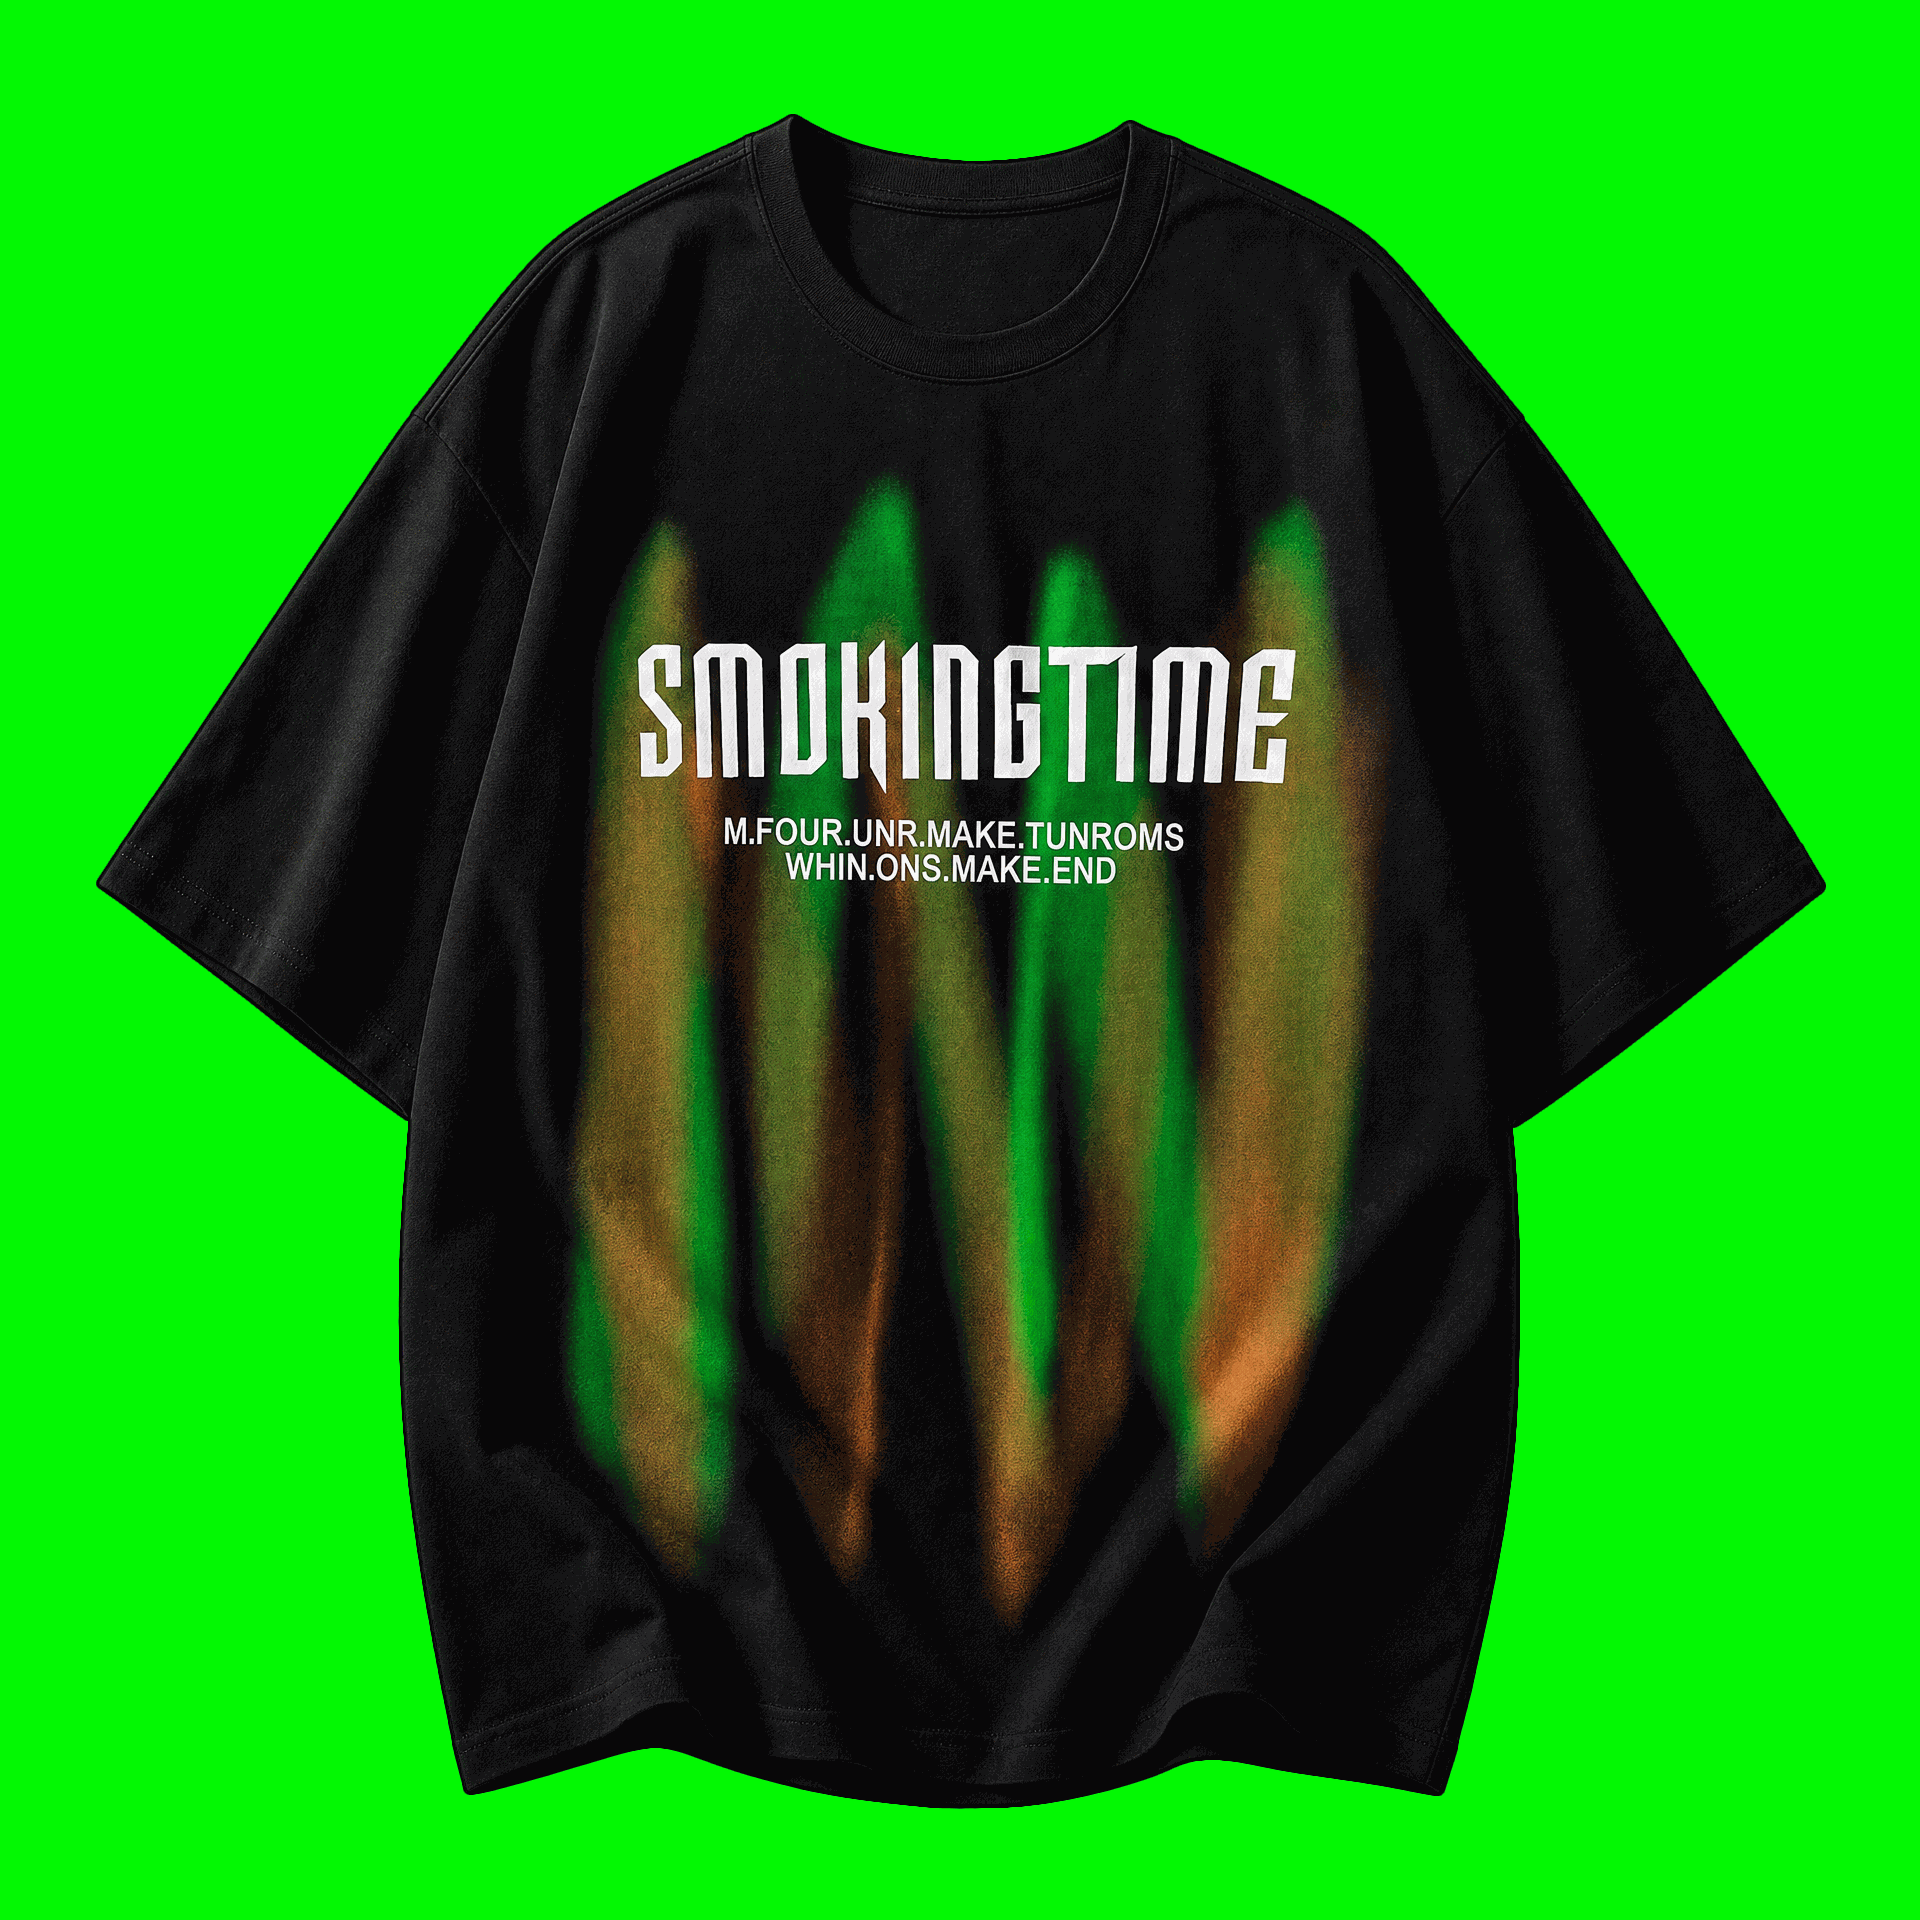
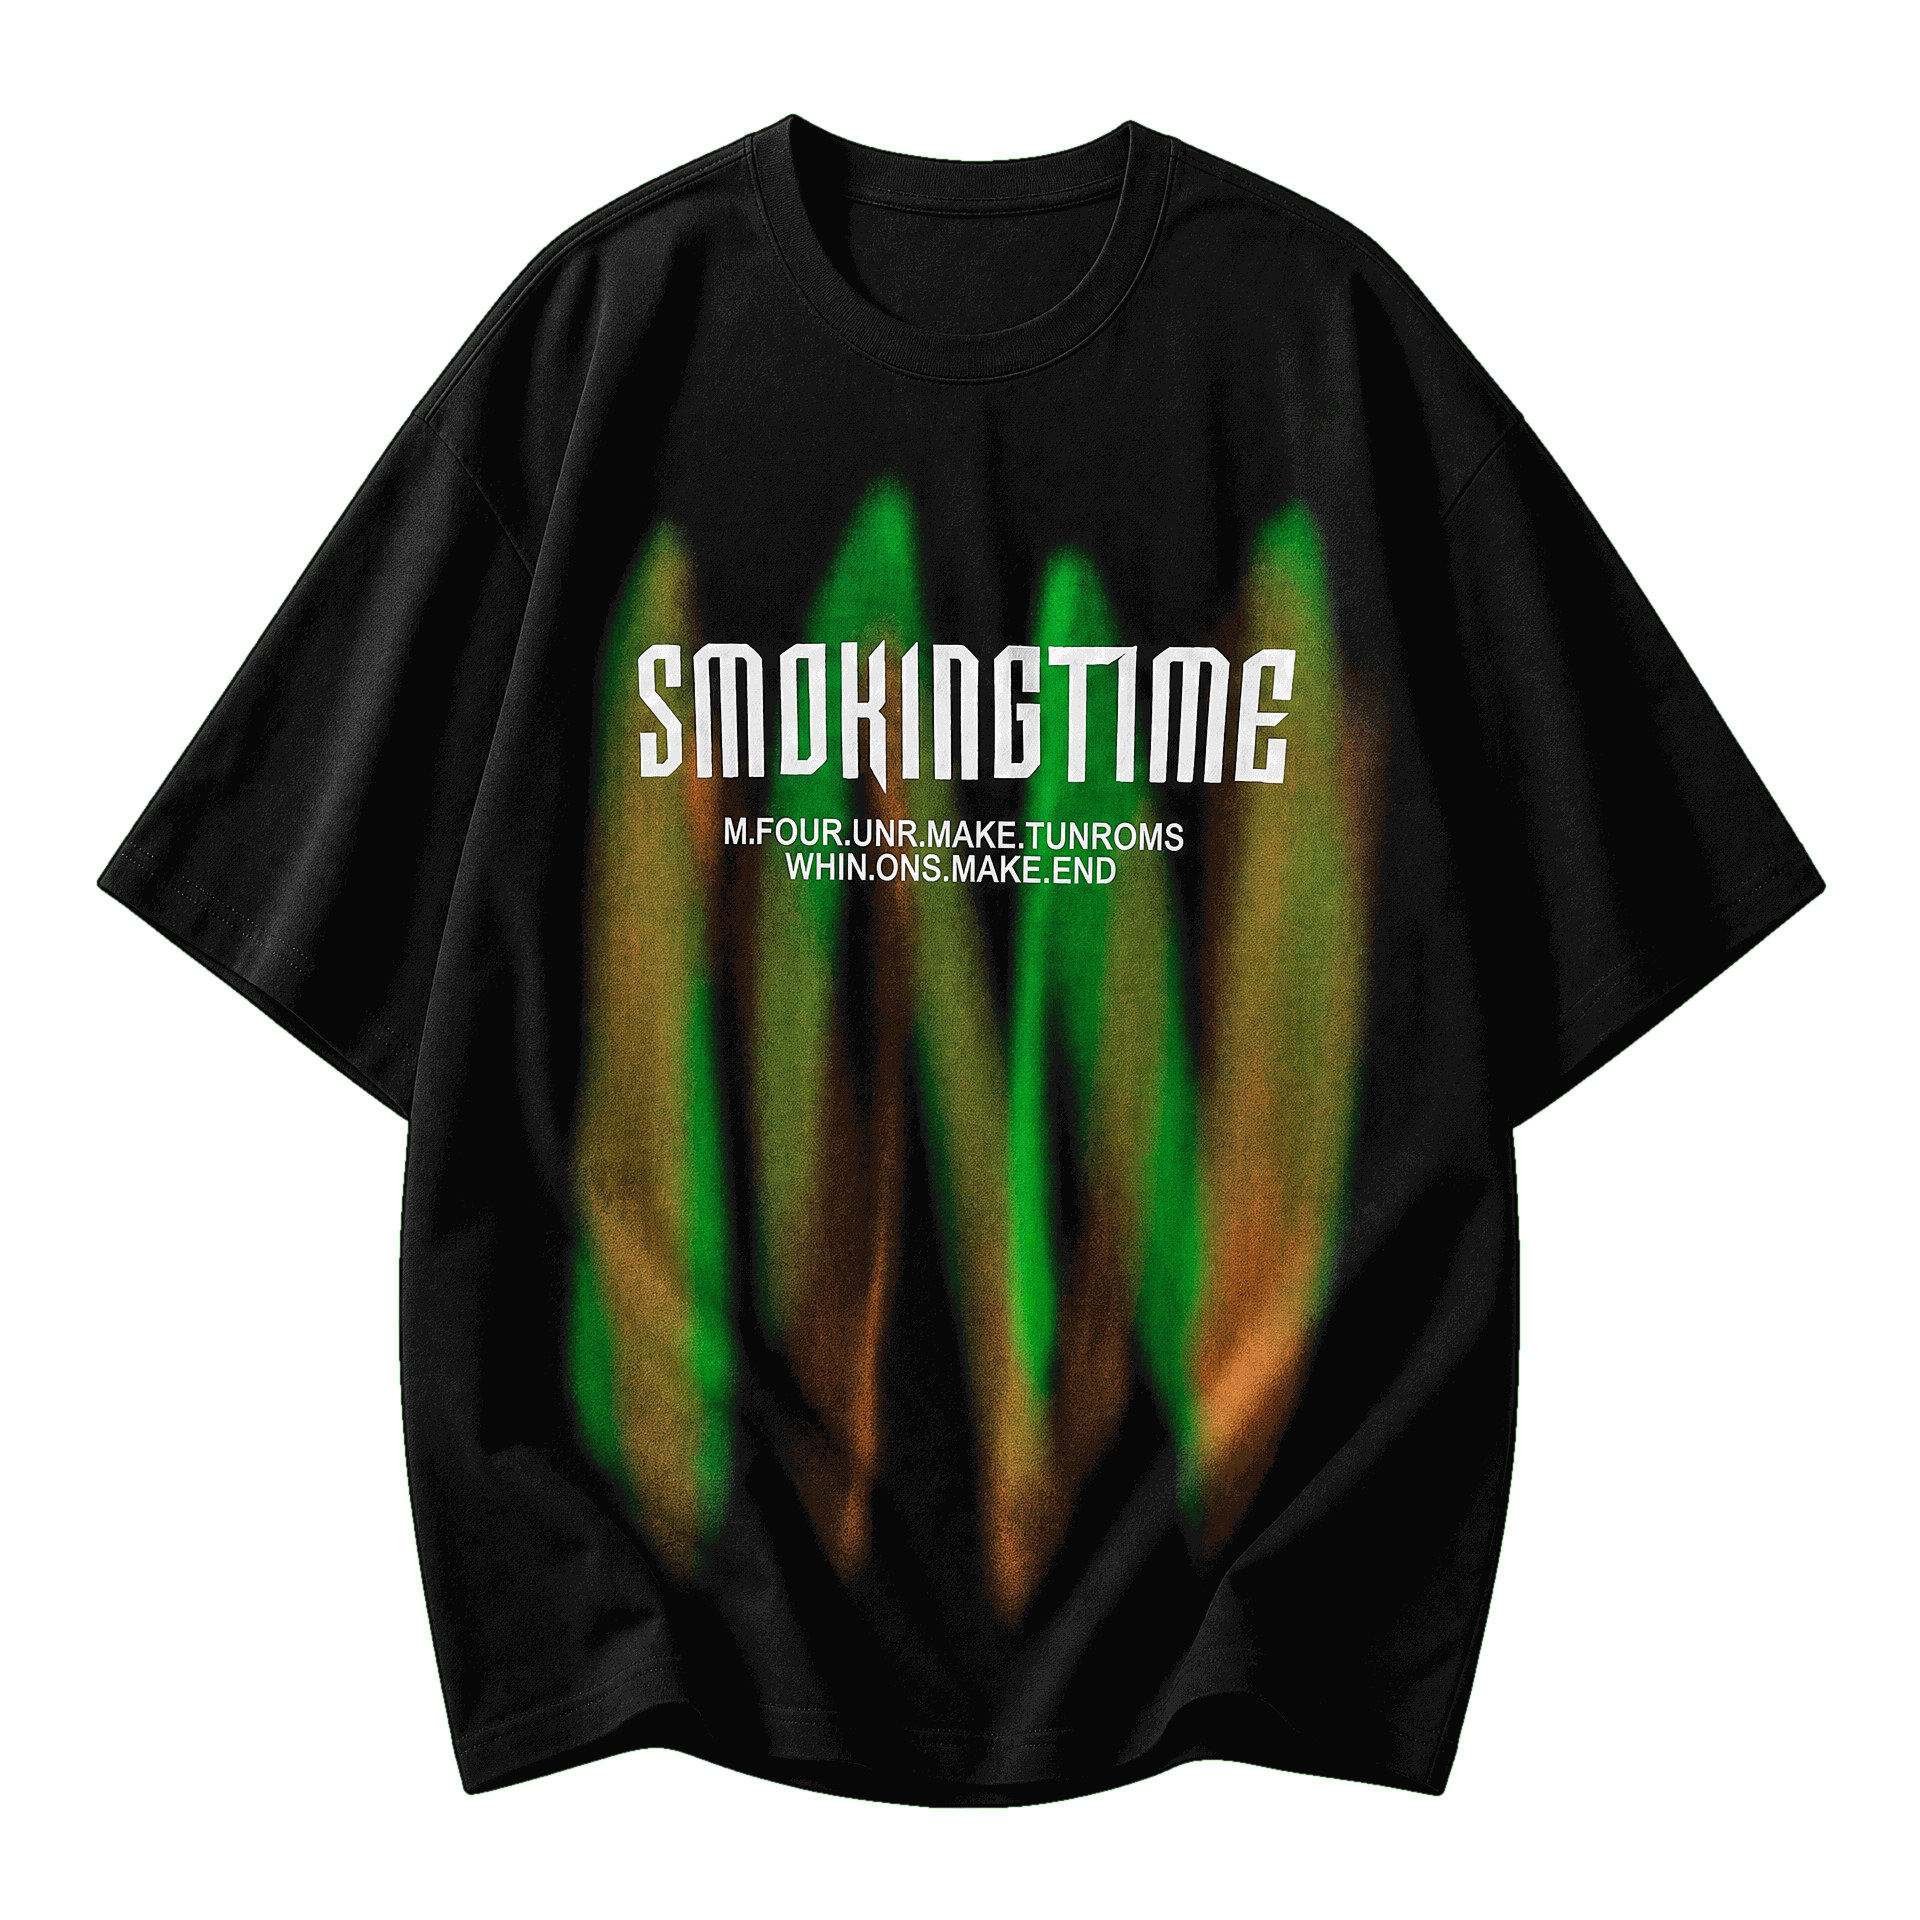
Clean green screen backgrounds on 3D mannequins and set all 18 products to SOLD OUT securely

diff --git a/shopify_set_sold_out.py b/shopify_set_sold_out.py
@@ -1,0 +1,86 @@
+import urllib.request
+import json
+import os
+import time
+
+# DISTRICT-99 (D99) - SHOPIFY INVENTORY SOLD-OUT SETTER
+# هذا السكريبت يتصل بمتجرك ويقوم بتعيين مخزون جميع مقاسات التيشيرتات الـ 18 إلى 0 لتظهر كـ SOLD OUT فوراً!
+
+STORE_URL = "district99-preview.myshopify.com"
+
+# Read token safely from local file ignored by git
+if os.path.exists("/home/user/.shopify_token"):
+    with open("/home/user/.shopify_token", "r") as f:
+        ACCESS_TOKEN = f.read().strip()
+else:
+    ACCESS_TOKEN = "shpat_YOUR_TOKEN_HERE"
+
+headers = {
+    "X-Shopify-Access-Token": ACCESS_TOKEN,
+    "Content-Type": "application/json"
+}
+
+def get_first_location_id():
+    """
+    Fetches the first location ID from Shopify (needed to modify inventory).
+    """
+    url = f"https://{STORE_URL}/admin/api/2026-07/locations.json"
+    req = urllib.request.Request(url, headers=headers, method="GET")
+    
+    try:
+        with urllib.request.urlopen(req) as response:
+            res_json = json.loads(response.read().decode("utf-8"))
+            location_id = res_json["locations"][0]["id"]
+            print(f"📍 Found Shopify Location ID: {location_id}")
+            return location_id
+    except Exception as e:
+        print(f"❌ Failed to fetch location: {e}")
+        return None
+
+def set_all_products_sold_out():
+    print("⏳ Starting inventory update to SOLD OUT...")
+    location_id = get_first_location_id()
+    if not location_id:
+        print("❌ Cannot proceed without Location ID.")
+        return
+        
+    # Fetch all products (up to 50)
+    url = f"https://{STORE_URL}/admin/api/2026-07/products.json?limit=50"
+    req = urllib.request.Request(url, headers=headers, method="GET")
+    
+    try:
+        with urllib.request.urlopen(req) as response:
+            res_json = json.loads(response.read().decode("utf-8"))
+            products = res_json["products"]
+            print(f"📦 Found {len(products)} products on the store.")
+            
+            for p in products:
+                print(f"🔄 Processing variants for product: {p['title']}")
+                for v in p["variants"]:
+                    inv_item_id = v["inventory_item_id"]
+                    sku = v["sku"]
+                    
+                    # Set inventory level to 0
+                    inv_url = f"https://{STORE_URL}/admin/api/2026-07/inventory_levels/set.json"
+                    inv_payload = {
+                        "location_id": location_id,
+                        "inventory_item_id": inv_item_id,
+                        "available": 0
+                    }
+                    
+                    inv_body = json.dumps(inv_payload).encode("utf-8")
+                    inv_req = urllib.request.Request(inv_url, data=inv_body, headers=headers, method="POST")
+                    
+                    try:
+                        with urllib.request.urlopen(inv_req) as inv_res:
+                            print(f"   ✅ Set SKU {sku} (Inventory ID: {inv_item_id}) to SOLD OUT (Qty: 0)")
+                        time.sleep(0.5) # Avoid API rate limit
+                    except Exception as e_inv:
+                        print(f"   ❌ Failed to set inventory for SKU {sku}: {e_inv}")
+                        
+        print("\n🎉 ALL DISTRICT-99 PRODUCTS ARE NOW SET TO SOLD OUT! 🎉")
+    except Exception as e:
+        print(f"❌ Failed to fetch products: {e}")
+
+if __name__ == "__main__":
+    set_all_products_sold_out()

diff --git a/fix_green_screens.py b/fix_green_screens.py
@@ -1,0 +1,85 @@
+import cv2
+import numpy as np
+import glob
+import os
+
+def remove_green_or_white_background(image_path, output_path):
+    """
+    Removes both white and bright phosphor green backgrounds from an image.
+    Uses HSV color space to cleanly isolate chroma-key green, and grayscale thresholding for white.
+    """
+    img = cv2.imread(image_path)
+    if img is None:
+        print(f"Error: Could not read image {image_path}")
+        return False
+        
+    h, w, c = img.shape
+    
+    # 1. Convert to HSV to detect bright phosphor green
+    hsv = cv2.cvtColor(img, cv2.COLOR_BGR2HSV)
+    
+    # Define range of bright phosphor green
+    lower_green = np.array([35, 40, 40])
+    upper_green = np.array([85, 255, 255])
+    
+    # Threshold the HSV image to get only green colors
+    green_mask = cv2.inRange(hsv, lower_green, upper_green)
+    
+    # 2. Convert to Grayscale to detect white
+    gray = cv2.cvtColor(img, cv2.COLOR_BGR2GRAY)
+    _, white_mask = cv2.threshold(gray, 245, 255, cv2.THRESH_BINARY)
+    
+    # Combine masks (pixels that are green OR white)
+    combined_bg_mask = cv2.bitwise_or(green_mask, white_mask)
+    
+    # Create copy for floodfilling from corners to keep interior whites/greens safe
+    flood_mask = np.zeros((h + 2, w + 2), dtype=np.uint8)
+    
+    # Border points to seed floodfill
+    border_points = [
+        (0, 0), (w - 1, 0), (0, h - 1), (w - 1, h - 1),
+        (w // 2, 0), (w // 2, h - 1), (0, h // 2), (w - 1, h // 2)
+    ]
+    
+    # Copy of mask to floodfill
+    bg_mask = combined_bg_mask.copy()
+    
+    # Perform floodfill from borders on the combined background mask
+    for pt in border_points:
+        if bg_mask[pt[1], pt[0]] == 255:
+            cv2.floodFill(bg_mask, flood_mask, pt, 255, flags=8)
+            
+    # The flood_mask has 1 (or 255) for background. Crop it back to image size.
+    final_bg_mask = flood_mask[1:h+1, 1:w+1] * 255
+    
+    # Foreground is the inverse of the background mask
+    final_fg_mask = cv2.bitwise_not(final_bg_mask)
+    
+    # Soften edges slightly
+    kernel = cv2.getStructuringElement(cv2.MORPH_ELLIPSE, (3, 3))
+    final_fg_mask = cv2.morphologyEx(final_fg_mask, cv2.MORPH_CLOSE, kernel)
+    final_fg_mask = cv2.morphologyEx(final_fg_mask, cv2.MORPH_OPEN, kernel)
+    final_fg_mask = cv2.GaussianBlur(final_fg_mask, (3, 3), 0)
+    
+    # Merge original BGR channels with final foreground alpha mask
+    orig_img = cv2.imread(image_path)
+    b, g, r = cv2.split(orig_img)
+    rgba = cv2.merge([b, g, r, final_fg_mask])
+    
+    # Save output as PNG
+    os.makedirs(os.path.dirname(output_path), exist_ok=True)
+    cv2.imwrite(output_path, rgba)
+    print(f"✅ Successfully cleaned background (white & green removed): {os.path.basename(output_path)}")
+    return True
+
+def fix_all_mannequins():
+    print("🚀 Starting green-screen and white background cleanup...")
+    # Scan all 3D mannequins
+    mannequin_files = glob.glob("/home/user/product/tshirt 01 to 18/TSH-*/3d_mannequin.png")
+    
+    for f_path in mannequin_files:
+        # Check if the folder contains green pixels (to avoid reprocessing if not needed, but safe to reprocess all)
+        remove_green_or_white_background(f_path, f_path)
+        
+if __name__ == "__main__":
+    fix_all_mannequins()
